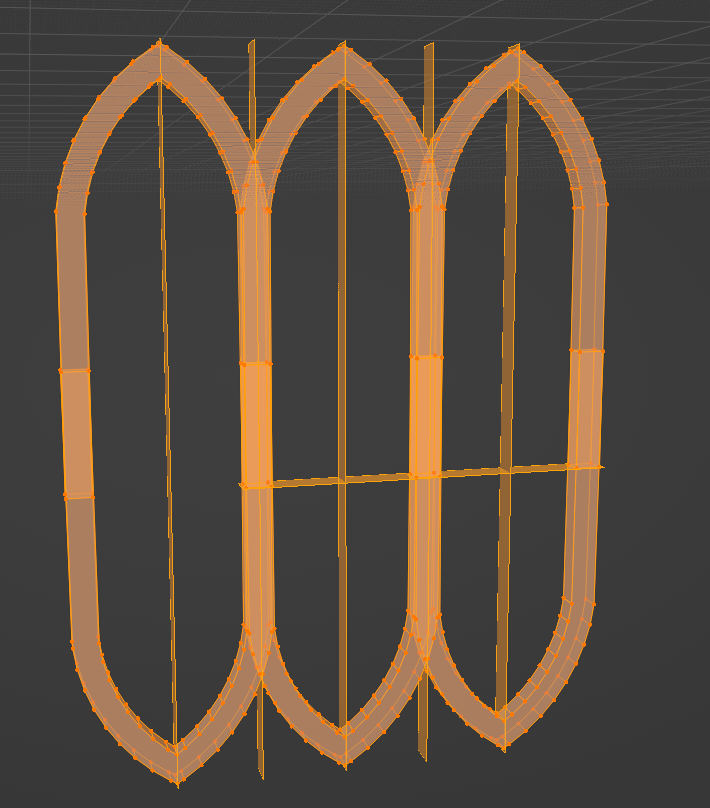
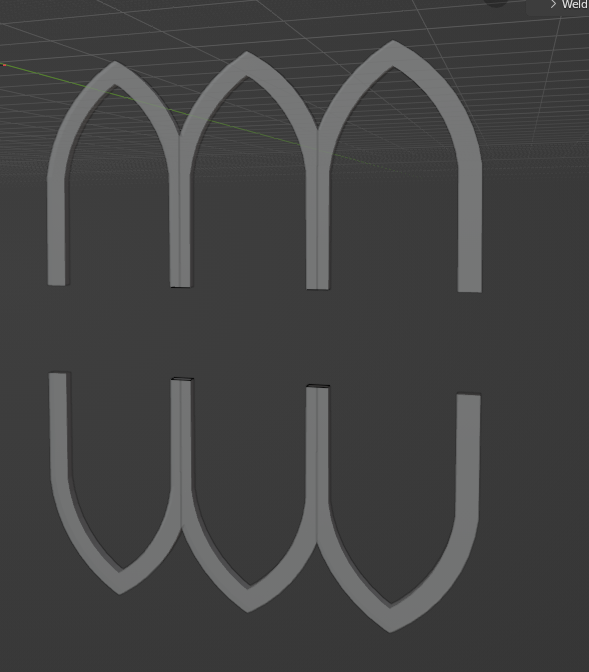
Tiler fix by opus almost fixed
Simplified to pairwise bounding box intersection analysis:
- Check every pair of meshes for bbox overlap
- Intersection shape determines cut direction:
  - Taller than wide → vertical cut (side by side)
  - Wider than tall → horizontal cut (stacked)
- Collect all planes first, then cut
- Removed complex row clustering logic

diff --git a/rCAD_utils/mesh_tiler/__init__.py b/rCAD_utils/mesh_tiler/__init__.py
@@ -67,56 +67,51 @@ def get_world_bounds(obj):
     return mathutils.Vector((min_x, min_y, min_z)), mathutils.Vector((max_x, max_y, max_z))
 
 
-def get_overlap_center(obj1, obj2):
-    min1, max1 = get_world_bounds(obj1)
-    min2, max2 = get_world_bounds(obj2)
-    overlap_min = mathutils.Vector((max(min1.x, min2.x), max(min1.y, min2.y), max(min1.z, min2.z)))
-    overlap_max = mathutils.Vector((min(max1.x, max2.x), min(max1.y, max2.y), min(max1.z, max2.z)))
-    if overlap_min.x >= overlap_max.x or overlap_min.z >= overlap_max.z:
-        return None
-    return (overlap_min + overlap_max) / 2
+def find_all_cuts(parts):
+    """Check every pair of meshes. The bounding box intersection shape tells us
+    which way to cut: taller than wide → vertical, wider than tall → horizontal."""
+    cut_list = []
+    for i in range(len(parts)):
+        for j in range(i + 1, len(parts)):
+            min_i, max_i = get_world_bounds(parts[i])
+            min_j, max_j = get_world_bounds(parts[j])
 
+            # Bounding box intersection
+            ix0 = max(min_i.x, min_j.x); ix1 = min(max_i.x, max_j.x)
+            iy0 = max(min_i.y, min_j.y); iy1 = min(max_i.y, max_j.y)
+            iz0 = max(min_i.z, min_j.z); iz1 = min(max_i.z, max_j.z)
 
-def share_horizontal_row(obj1, obj2):
-    min1, max1 = get_world_bounds(obj1)
-    min2, max2 = get_world_bounds(obj2)
-    overlap_start = max(min1.z, min2.z)
-    overlap_end = min(max1.z, max2.z)
-    overlap_amount = overlap_end - overlap_start
-    if overlap_amount <= 0: return False
-    height1 = max1.z - min1.z
-    height2 = max2.z - min2.z
-    min_height = min(height1, height2)
-    return overlap_amount > (min_height * 0.5)
+            # Must overlap or touch in both X and Z (tolerance for touching)
+            if ix0 > ix1 + 0.001 or iz0 > iz1 + 0.001:
+                continue
 
+            inter_x = max(0, ix1 - ix0)
+            inter_z = max(0, iz1 - iz0)
+            p_co = mathutils.Vector(((ix0 + ix1) / 2, (iy0 + iy1) / 2, (iz0 + iz1) / 2))
 
-def cluster_into_rows(objects):
-    if not objects: return []
-    adj = {obj: [] for obj in objects}
-    for i in range(len(objects)):
-        for j in range(i + 1, len(objects)):
-            if share_horizontal_row(objects[i], objects[j]):
-                adj[objects[i]].append(objects[j])
-                adj[objects[j]].append(objects[i])
-    visited = set()
-    rows = []
-    for obj in objects:
-        if obj not in visited:
-            current_row = []
-            stack = [obj]
-            visited.add(obj)
-            while stack:
-                curr = stack.pop()
-                current_row.append(curr)
-                for neighbor in adj[curr]:
-                    if neighbor not in visited:
-                        visited.add(neighbor)
-                        stack.append(neighbor)
-            rows.append(current_row)
-    for row in rows:
-        row.sort(key=lambda o: get_center(o).x)
-    rows.sort(key=lambda c: get_center(c[0]).z)
-    return rows
+            if inter_z >= inter_x:
+                # Taller than wide → side by side → vertical cut
+                p_no = mathutils.Vector((1, 0, 0))
+                ci = (min_i.x + max_i.x) / 2
+                cj = (min_j.x + max_j.x) / 2
+                if ci < cj:
+                    left, right = parts[i], parts[j]
+                else:
+                    left, right = parts[j], parts[i]
+                cut_list.append((left, p_co, p_no, False, True))
+                cut_list.append((right, p_co, p_no, True, False))
+            else:
+                # Wider than tall → stacked → horizontal cut
+                p_no = mathutils.Vector((0, 0, 1))
+                ci = (min_i.z + max_i.z) / 2
+                cj = (min_j.z + max_j.z) / 2
+                if ci < cj:
+                    bot, top = parts[i], parts[j]
+                else:
+                    bot, top = parts[j], parts[i]
+                cut_list.append((bot, p_co, p_no, False, True))
+                cut_list.append((top, p_co, p_no, True, False))
+    return cut_list
 
 
 # --- OPERATOR ---
@@ -166,43 +161,31 @@ class MESH_OT_MeshTiler(bpy.types.Operator):
 
             if context.mode != 'OBJECT': bpy.ops.object.mode_set(mode='OBJECT')
 
-            rows = cluster_into_rows(all_parts)
+            # Find ALL cut planes from pairwise bounding box intersections
+            cut_list = find_all_cuts(all_parts)
 
-            # Step 4: Pre-compute ALL cut planes before touching geometry
-            cut_list = []
-
-            # Vertical cuts (X-axis) within each row
-            for row_objs in rows:
-                for i in range(1, len(row_objs)):
-                    left = row_objs[i - 1]
-                    right = row_objs[i]
-                    p_co = get_overlap_center(left, right)
-                    if p_co:
-                        p_no = mathutils.Vector((1, 0, 0))
-                        cut_list.append((left, p_co, p_no, False, True))
-                        cut_list.append((right, p_co, p_no, True, False))
-
-            # Horizontal cuts (Z-axis) between adjacent rows
-            rows.sort(key=lambda r: get_world_bounds(r[0])[0].z)
-            for i in range(1, len(rows)):
-                for bot in rows[i - 1]:
-                    for top in rows[i]:
-                        p_co = get_overlap_center(bot, top)
-                        if p_co:
-                            p_no = mathutils.Vector((0, 0, 1))
-                            cut_list.append((bot, p_co, p_no, False, True))
-                            cut_list.append((top, p_co, p_no, True, False))
-
-            # Step 5: Apply all bisects
+            # Group cuts by object and apply all cuts to each object at once
+            cuts_by_obj = {}
             for obj, plane_co, plane_no, clear_inner, clear_outer in cut_list:
+                if obj not in cuts_by_obj:
+                    cuts_by_obj[obj] = []
+                cuts_by_obj[obj].append((plane_co, plane_no, clear_inner, clear_outer))
+
+            for obj, cuts in cuts_by_obj.items():
                 bpy.ops.object.select_all(action='DESELECT')
                 context.view_layer.objects.active = obj
                 obj.select_set(True)
                 bpy.ops.object.mode_set(mode='EDIT')
-                bpy.ops.mesh.select_all(action='SELECT')
-                bpy.ops.mesh.bisect(plane_co=plane_co, plane_no=plane_no,
-                                    clear_inner=clear_inner, clear_outer=clear_outer,
-                                    threshold=0.0001)
+                bm = bmesh.from_edit_mesh(obj.data)
+
+                # Apply all cuts to this object's bmesh
+                for plane_co, plane_no, clear_inner, clear_outer in cuts:
+                    bpy.ops.mesh.select_all(action='SELECT')
+                    bpy.ops.mesh.bisect(plane_co=plane_co, plane_no=plane_no,
+                                        clear_inner=clear_inner, clear_outer=clear_outer,
+                                        threshold=0.0001)
+
+                bmesh.update_edit_mesh(obj.data)
                 bpy.ops.object.mode_set(mode='OBJECT')
 
             # Step 6: Done — leave all parts as separate objects

diff --git a/rCAD_utils/mesh_tiler/preview.py b/rCAD_utils/mesh_tiler/preview.py
@@ -16,24 +16,34 @@ def _get_island_bounds(bm, island_indices, mw):
     )
 
 
-def _x_overlap(b1, b2):
-    x_min = max(b1[0].x, b2[0].x)
-    x_max = min(b1[1].x, b2[1].x)
-    return (x_min + x_max) / 2 if x_max > x_min else None
+def _find_preview_planes(all_bounds):
+    """Check every pair. Intersection shape decides cut direction."""
+    planes = []
+    for i in range(len(all_bounds)):
+        for j in range(i + 1, len(all_bounds)):
+            b1, b2 = all_bounds[i], all_bounds[j]
 
+            ix0 = max(b1[0].x, b2[0].x); ix1 = min(b1[1].x, b2[1].x)
+            iz0 = max(b1[0].z, b2[0].z); iz1 = min(b1[1].z, b2[1].z)
 
-def _same_row(b1, b2):
-    overlap = min(b1[1].z, b2[1].z) - max(b1[0].z, b2[0].z)
-    return overlap > min(b1[1].z - b1[0].z, b2[1].z - b2[0].z) * 0.5
+            if ix0 > ix1 + 0.001 or iz0 > iz1 + 0.001:
+                continue
 
+            inter_x = max(0, ix1 - ix0)
+            inter_z = max(0, iz1 - iz0)
 
-def _z_overlap(b1, b2):
-    z_min = max(b1[0].z, b2[0].z)
-    z_max = min(b1[1].z, b2[1].z)
-    # Tolerance catches touching/near-touching bounding boxes (stacked meshes)
-    if z_max >= z_min - 0.001:
-        return (z_min + z_max) / 2
-    return None
+            merged_mn = mathutils.Vector((min(b1[0].x, b2[0].x), min(b1[0].y, b2[0].y), min(b1[0].z, b2[0].z)))
+            merged_mx = mathutils.Vector((max(b1[1].x, b2[1].x), max(b1[1].y, b2[1].y), max(b1[1].z, b2[1].z)))
+
+            if inter_z >= inter_x:
+                # Taller than wide → side by side → vertical plane
+                cx = (ix0 + ix1) / 2
+                planes.append(_quad_verts(cx, merged_mn, merged_mx))
+            else:
+                # Wider than tall → stacked → horizontal plane
+                cz = (iz0 + iz1) / 2
+                planes.append(_quad_verts_hz(cz, merged_mn, merged_mx))
+    return planes
 
 
 def _quad_verts(cx, mn, mx):
@@ -108,53 +118,7 @@ class MESH_OT_MeshTilerPreview(bpy.types.Operator):
         mw = obj.matrix_world
         all_bounds = [_get_island_bounds(bm, island, mw) for island in islands]
 
-        # cluster into rows
-        n = len(all_bounds)
-        adj = {i: [] for i in range(n)}
-        for i in range(n):
-            for j in range(i + 1, n):
-                if _same_row(all_bounds[i], all_bounds[j]):
-                    adj[i].append(j); adj[j].append(i)
-        visited = set()
-        rows = []
-        for i in range(n):
-            if i not in visited:
-                row = []; stack = [i]; visited.add(i)
-                while stack:
-                    c = stack.pop(); row.append(c)
-                    for nb in adj[c]:
-                        if nb not in visited: visited.add(nb); stack.append(nb)
-                row.sort(key=lambda k: (all_bounds[k][0].x + all_bounds[k][1].x) / 2)
-                rows.append(row)
-
-        planes = []
-        # Vertical cut planes (X-axis) within each row
-        for row in rows:
-            for i in range(1, len(row)):
-                b1 = all_bounds[row[i - 1]]
-                b2 = all_bounds[row[i]]
-                cx = _x_overlap(b1, b2)
-                if cx is not None:
-                    merged_mn = mathutils.Vector((min(b1[0].x, b2[0].x), min(b1[0].y, b2[0].y), min(b1[0].z, b2[0].z)))
-                    merged_mx = mathutils.Vector((max(b1[1].x, b2[1].x), max(b1[1].y, b2[1].y), max(b1[1].z, b2[1].z)))
-                    planes.append(_quad_verts(cx, merged_mn, merged_mx))
-
-        # Horizontal cut planes (Z-axis) between adjacent rows
-        rows.sort(key=lambda r: (all_bounds[r[0]][0].z + all_bounds[r[0]][1].z) / 2)
-        for ri in range(1, len(rows)):
-            for bi in rows[ri - 1]:
-                for ti in rows[ri]:
-                    b_bot = all_bounds[bi]
-                    b_top = all_bounds[ti]
-                    # Skip pairs that don't overlap in X (not actually above/below each other)
-                    if min(b_bot[1].x, b_top[1].x) <= max(b_bot[0].x, b_top[0].x):
-                        continue
-                    cz = _z_overlap(b_bot, b_top)
-                    if cz is not None:
-                        merged_mn = mathutils.Vector((min(b_bot[0].x, b_top[0].x), min(b_bot[0].y, b_top[0].y), min(b_bot[0].z, b_top[0].z)))
-                        merged_mx = mathutils.Vector((max(b_bot[1].x, b_top[1].x), max(b_bot[1].y, b_top[1].y), max(b_bot[1].z, b_top[1].z)))
-                        planes.append(_quad_verts_hz(cz, merged_mn, merged_mx))
-
+        planes = _find_preview_planes(all_bounds)
         _state["planes"] = planes
         _state["handle"] = bpy.types.SpaceView3D.draw_handler_add(
             _draw_callback, (), 'WINDOW', 'POST_VIEW'
